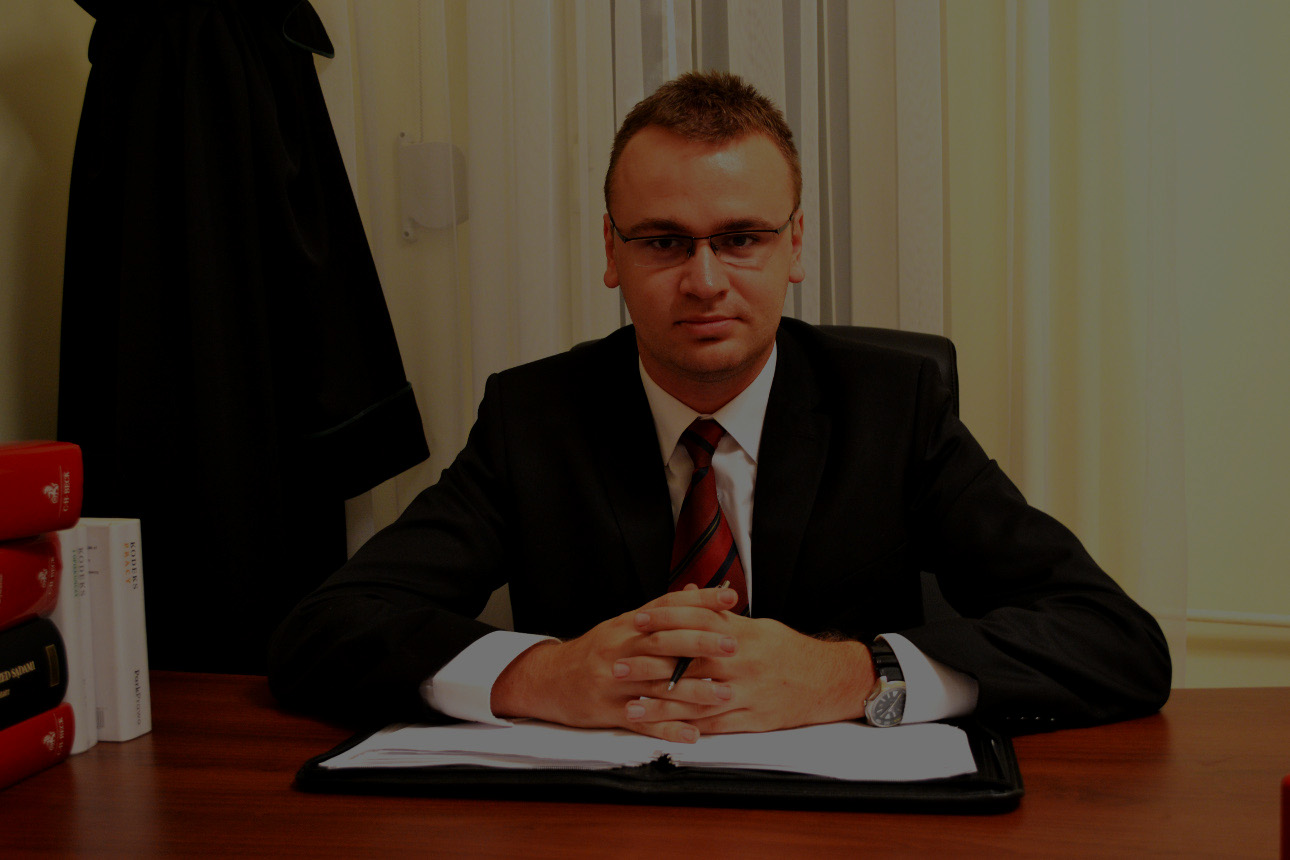
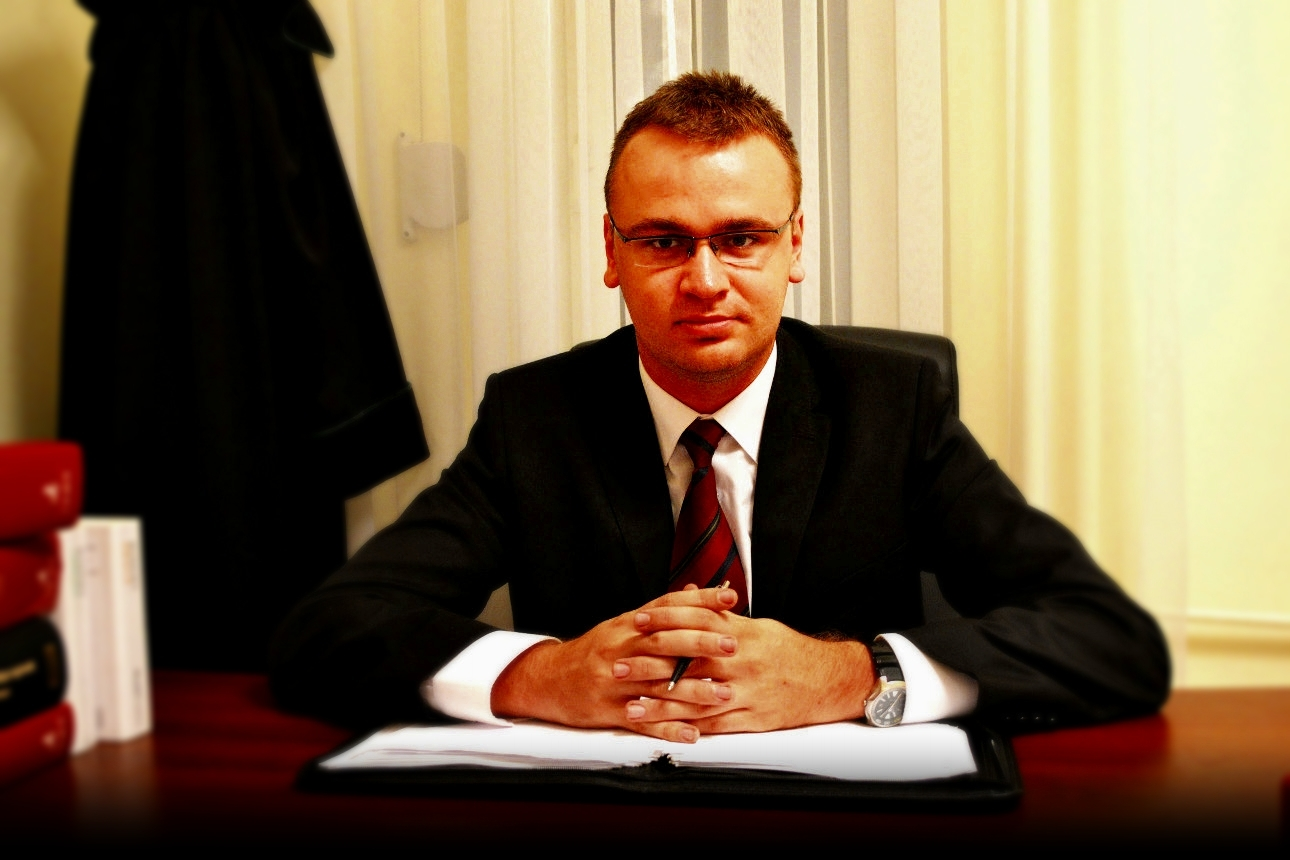
commit

diff --git a/index.html b/index.html
@@ -115,12 +115,28 @@ google.maps.event.addDomListener(window, 'load', initialize);
             <p>Webpage under construction. Some information may be incomplete.</p>
           </section>
           
+         </article>
+        </div>
+       </div>
+      <div class="main-container">
+      <div class="main wrapper clearfix">
+        <article>
+          
           <h1 class="section">Portfolio</h1>
           <section>
 
             Lorem Ipsum es simplemente el texto de relleno de las imprentas y archivos de texto. Lorem Ipsum ha sido el texto de relleno estándar de las industrias desde el año 1500, cuando un impresor (N. del T. persona que se dedica a la imprenta) desconocido usó una galería de textos y los mezcló de tal manera que logró hacer un libro de textos especimen. No sólo sobrevivió 500 años, sino que tambien ingresó como texto de relleno en documentos electrónicos, quedando esencialmente igual al original. Fue popularizado en los 60s con la creación de las hojas "Letraset", las cuales contenian pasajes de Lorem Ipsum, y más recientemente con software de autoedición, como por ejemplo Aldus PageMaker, el cual incluye versiones de Lorem Ipsum.
             Lorem Ipsum es simplemente el texto de relleno de las imprentas y archivos de texto. Lorem Ipsum ha sido el texto de relleno estándar de las industrias desde el año 1500, cuando un impresor (N. del T. persona que se dedica a la imprenta) desconocido usó una galería de textos y los mezcló de tal manera que logró hacer un libro de textos especimen. No sólo sobrevivió 500 años, sino que tambien ingresó como texto de relleno en documentos electrónicos, quedando esencialmente igual al original. Fue popularizado en los 60s con la creación de las hojas "Letraset", las cuales contenian pasajes de Lorem Ipsum, y más recientemente con software de autoedición, como por ejemplo Aldus PageMaker, el cual incluye versiones de Lorem Ipsum.
             </section>
+            
+                     </article>
+        </div>
+       </div>
+      <div class="main-container">
+      <div class="main wrapper clearfix">
+        <article>
+        	
+        	
    <h1 class="section">Contact</h1>
           <section>
             <p>Email: <a href="mailto:mail@mail">mail@mail</a></p>
@@ -144,6 +160,15 @@ google.maps.event.addDomListener(window, 'load', initialize);
             <p>Email: <a href="mailto:mail@mail">mail@mail</a></p>
             <p>Email: <a href="mailto:mail@mail">mail@mail</a></p>
   </section>
+  
+           </article>
+        </div>
+       </div>
+      <div class="main-container">
+      <div class="main wrapper clearfix">
+        <article>
+        	
+        	
      <h1 class="section">Map</h1>
           <section>
 
@@ -154,6 +179,15 @@ google.maps.event.addDomListener(window, 'load', initialize);
 
         
           </section>
+          
+                   </article>
+        </div>
+       </div>
+      <div class="main-container">
+      <div class="main wrapper clearfix">
+        <article>
+        	
+        	
           
           <h1 class="section">Contact form</h1>
           <section>

diff --git a/css/colors.css b/css/colors.css
@@ -1,51 +1,11 @@
-/*NAVIGATION------NAVIGATION------NAVIGATION------NAVIGATION------NAVIGATION------NAVIGATION------NAVIGATION------*/
-/*text color*/
-.title {
-	/*color: #DCEEFF;*/
-}
-/*background color*/
-/*.header-container {
- background: #BCAFE8;
- }*//*A196C7*/
-/*border color (tetriary color)*/
-/*.header-container {
- border-bottom: 20px solid #6E4778;
- }*/
-/*navigation links*/
-/*nav .first{
- background:#432E68;
- }
- nav .second{
- background:#432E68;
- }
- nav .third{
- background:#432E68;
- }*/
-
 /*MAIN------MAIN------MAIN------MAIN------MAIN------MAIN------MAIN------MAIN------MAIN------MAIN------MAIN*/
-/*text color*/
 article h2 {
-	/*color:#b3d4fc;*//*B06E97 96585C 42335E A02BDA*/
-	/*font-weight: normal;*/
 	font-size: 1em;
 	font-family: freight-sans-pro, 'Myriad Pro', 'Lucida Grande', 'Lucida Sans Unicode', 'Lucida Sans', Geneva, Verdana, sans-serif;
 }
-article {
-	/*color:#DCEEFF;*/
-}
-/*background color*/
-/*body{
- background:#f6ffcc;
- }*/
-
-/*background image*/
-/*.bg { position: fixed; top: 0; left: 0; }
-.bgwidth { width: 100%; }
-.bgheight { height: 100%; }*/
 
 .bg {
   /* Set rules to fill background */
-  min-height: 100%;
   min-width: 1290px;
 	
   /* Set up proportionate scaling */
@@ -68,20 +28,20 @@ article {
   }
 }
 
+.main-container{
+	background-color:#000022;
+}
 
 article section{
-	background-color: rgba(0,0,0, 0.4);
-	color:white;
+	/*background-color: rgba(0,0,0, 1.0);*/
+	/*color:white;*/
 	font-size: 24px;
 	
 	line-height: 36px;
-	/*border-top: 2px solid #cccccc;*/
-	/*border: 1px solid white;*/
-	/*padding: 3%;*/
 }
 
 body {
-	color: #eeeeee;
+	color: #ffffff;
 }
 .title
 {
@@ -105,55 +65,24 @@ a::-moz-focus-inner{
 
 body {
 	background: black;
-	/*background-image: url('./../img/background.png');
-	position:absolute;
-	-webkit-background-size: cover;
-	-moz-background-size: cover;
-	-o-background-size: cover;
-	background-size: cover;*/
 }
 article a, article a:hover, article a:visited {
 	color: white;
-	/*color: #DCEEFF;*//*#FFC64C;*/
 }
-.body-home {
-	/*background-image:url('./../img/background.svg');
-	 background-repeat:repeat;*/
-	/*background:#20192E;*//*tu tu tu tu tu tu tu tu tu tu tu tu tu tu tu tu tu tu*/
-}/*BCAFE8 554F68 6C5E87*/
-.body-portfolio {
-	background: #e9ffff;
-}
-.body-work {
-	background: #fff4f3;
-}
+
+
 /*ASIDE---------ASIDE---------ASIDE---------ASIDE---------ASIDE---------ASIDE---------ASIDE---------ASIDE---------*/
 /*text color*/
 .main aside {
 	color: black;
 }
-/*background color*/
-/*.main aside {
- background: #855691;
- }*/
-/*border color (tetriary color)*/
-/*.main aside {
- border-top: 20px solid #6E4778;
- }*/
 
 /*FOOTER------FOOTER------FOOTER------FOOTER------FOOTER------FOOTER------FOOTER------FOOTER------FOOTER------FOOTER*/
 /*text color*/
 .footer-container footer {
 	color: black;
 }
-/*background color*/
-/*.footer-container {
- background: #855691;
- }*/
-/*border color (tetriary color)*/
-/*.footer-container {
- border-top: 20px solid #6E4778;
- }*/
+
 /*footer email link*/
 .footer-container a:link {
 	color: black;

diff --git a/css/main.css b/css/main.css
@@ -165,8 +165,8 @@ small{
 
 .main article
 {
-	margin-top:400px;
-	margin-bottom:100px;/*for google translator snippet*/
+	/*margin-top:400px;*/
+	/*margin-bottom:100px;/*for google translator snippet*/*/
 }
 
 
@@ -176,7 +176,7 @@ small{
 		width: 100%;
 		position: fixed;
 		top:0px;
-		background-color: rgba(0,0,0, 0.2);	
+		background-color: rgba(0,0,0, 1.0);	
 		z-index: 100;
 	}
 	div.floating-menu li {
@@ -226,7 +226,7 @@ article section
 {
 	width: 90%;
 	padding: 3%;
-	margin: 20% 2%;
+	margin: 0 2%;
 	margin-top:0px;
 }
 
@@ -238,7 +238,11 @@ h1
 
 .header-container
 {
-	margin-top:550px
+	margin-top:550px;
+	margin-bottom:400px;
+}
+.main-container{
+	margin-bottom:200px;
 }
 header
 {
@@ -283,18 +287,6 @@ body{
     
 
 
-
-
-    /*sum to 81%*/
-    /*nav .first
-    {
-    	width:35%;
-    }
-    nav .second,
-    nav .third{
-    	width:23%
-    }*/
-
     nav li:first-child a {
         margin-left: 0;
     }
@@ -322,13 +314,7 @@ body{
 /* ====================
     WIDE: CSS3 Effects
    ==================== */
-/*turn off blocks shadows*/
-    /*.header-container,
-    .main aside {
-        -webkit-box-shadow: 0 5px 10px #aaa;
-           -moz-box-shadow: 0 5px 10px #aaa;
-                box-shadow: 0 5px 10px #aaa;
-    }*/
+
 
 /* ============
     WIDE: Main
